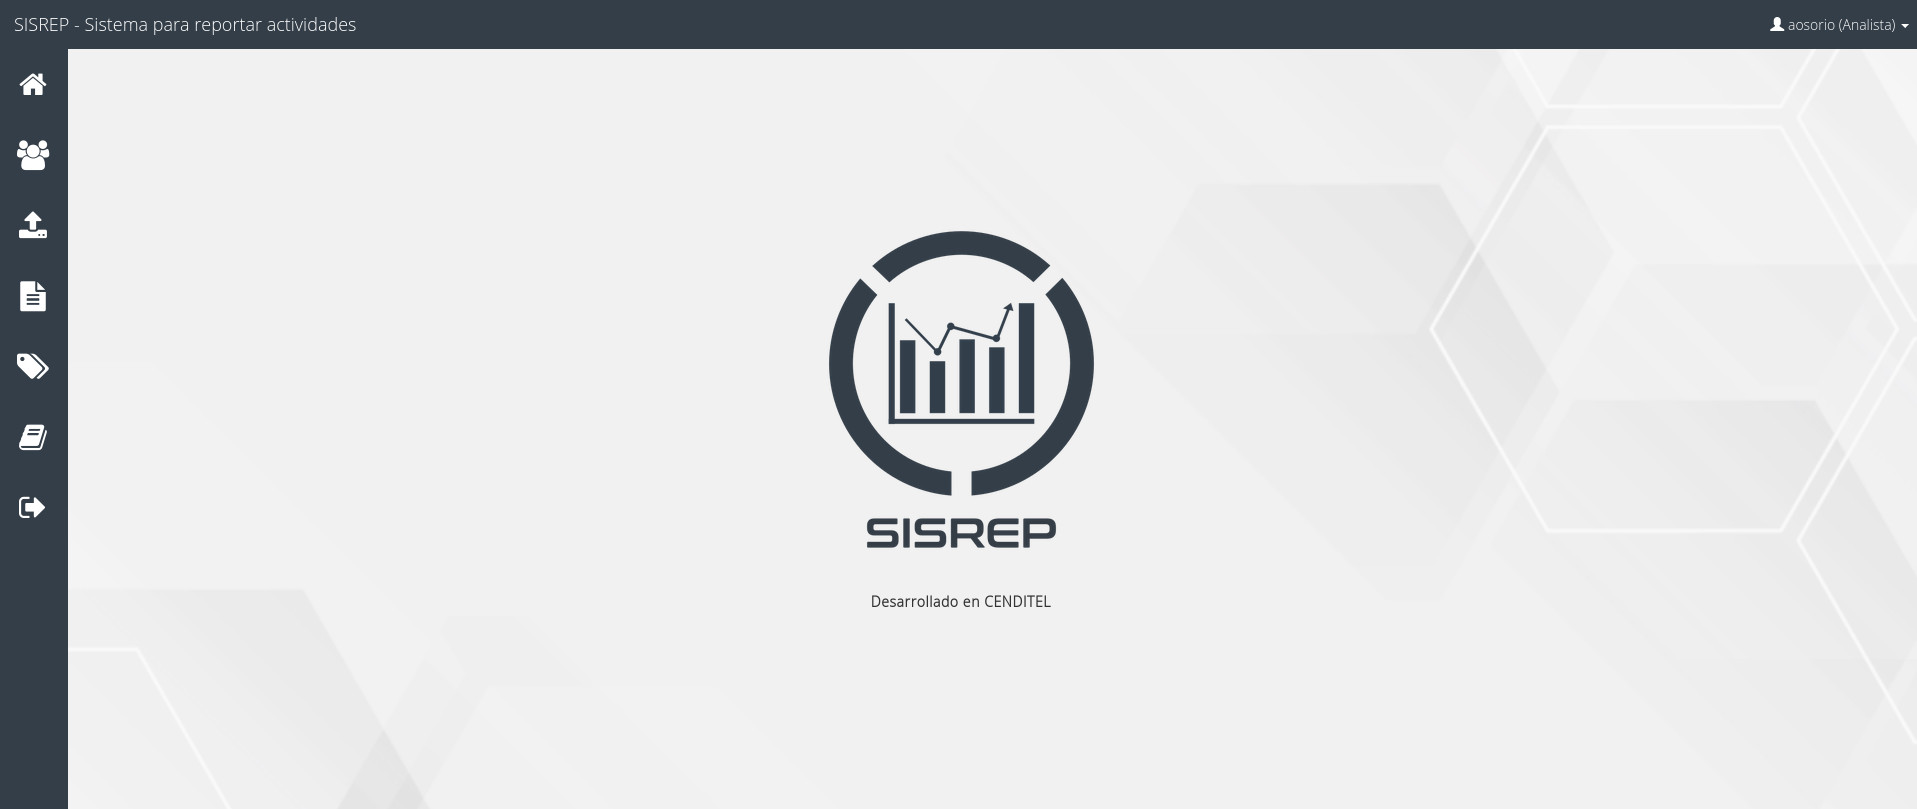
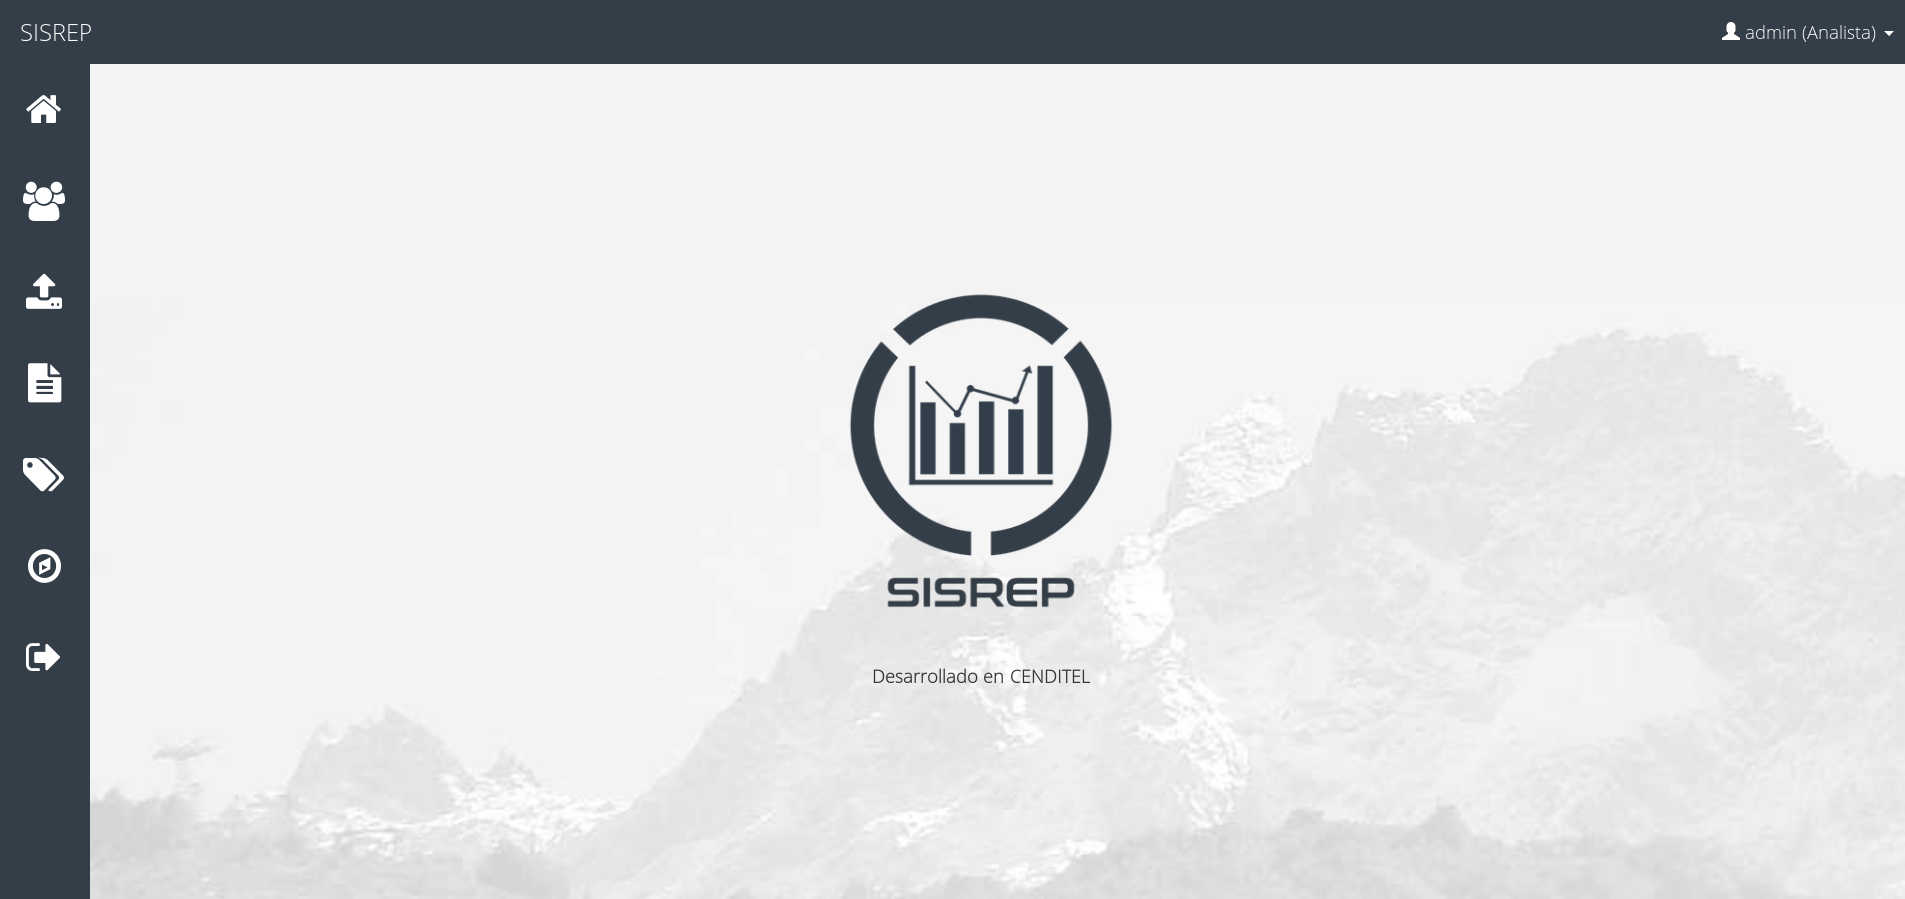
Agregada nueva captura del sistema

diff --git a/README.md b/README.md
@@ -80,3 +80,7 @@ $ python manage.py runserver
 <br />
 
 ![captura-2.jpg](captura-2.jpg "captura-2.jpg")
+
+<br />
+
+![captura-3.jpg](captura-3.jpg "captura-3.jpg")
